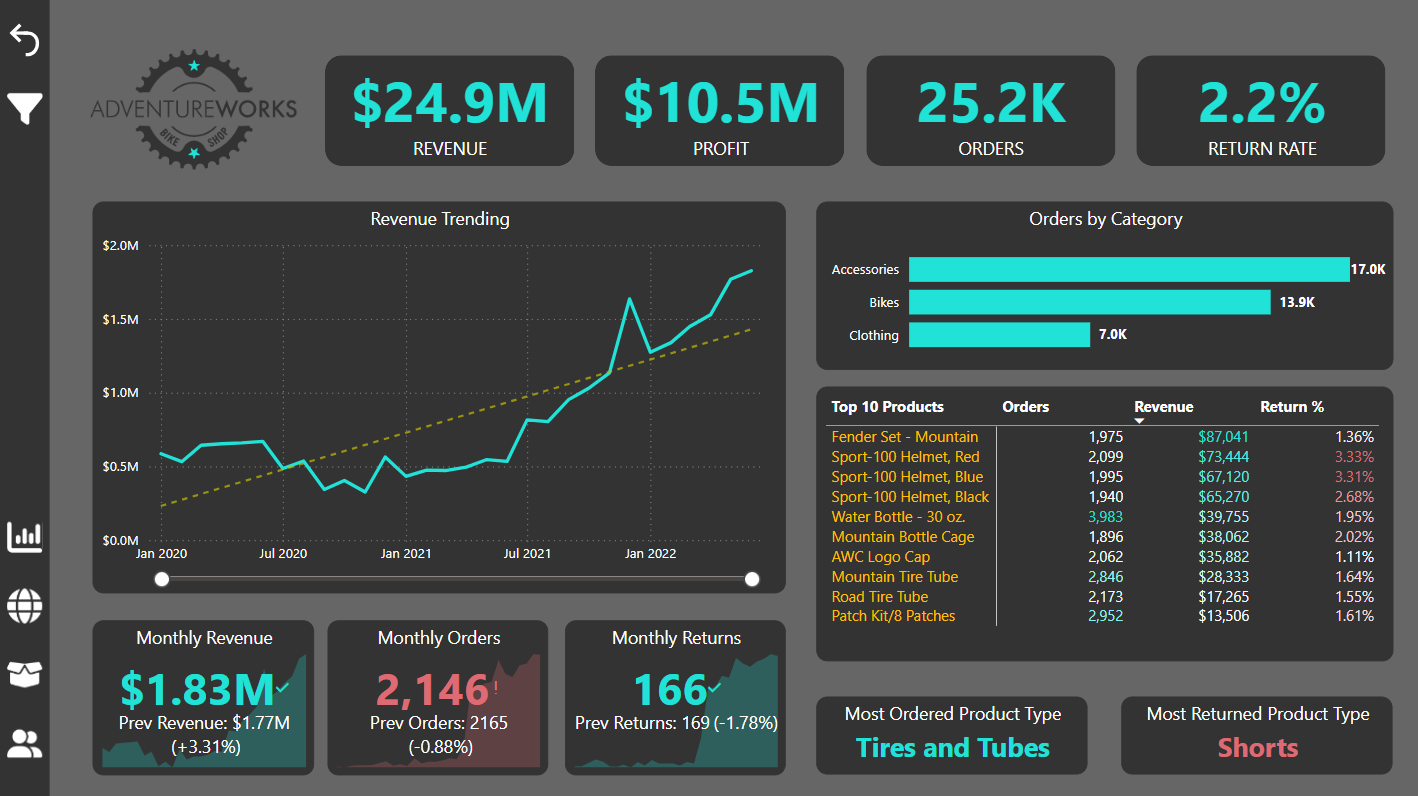
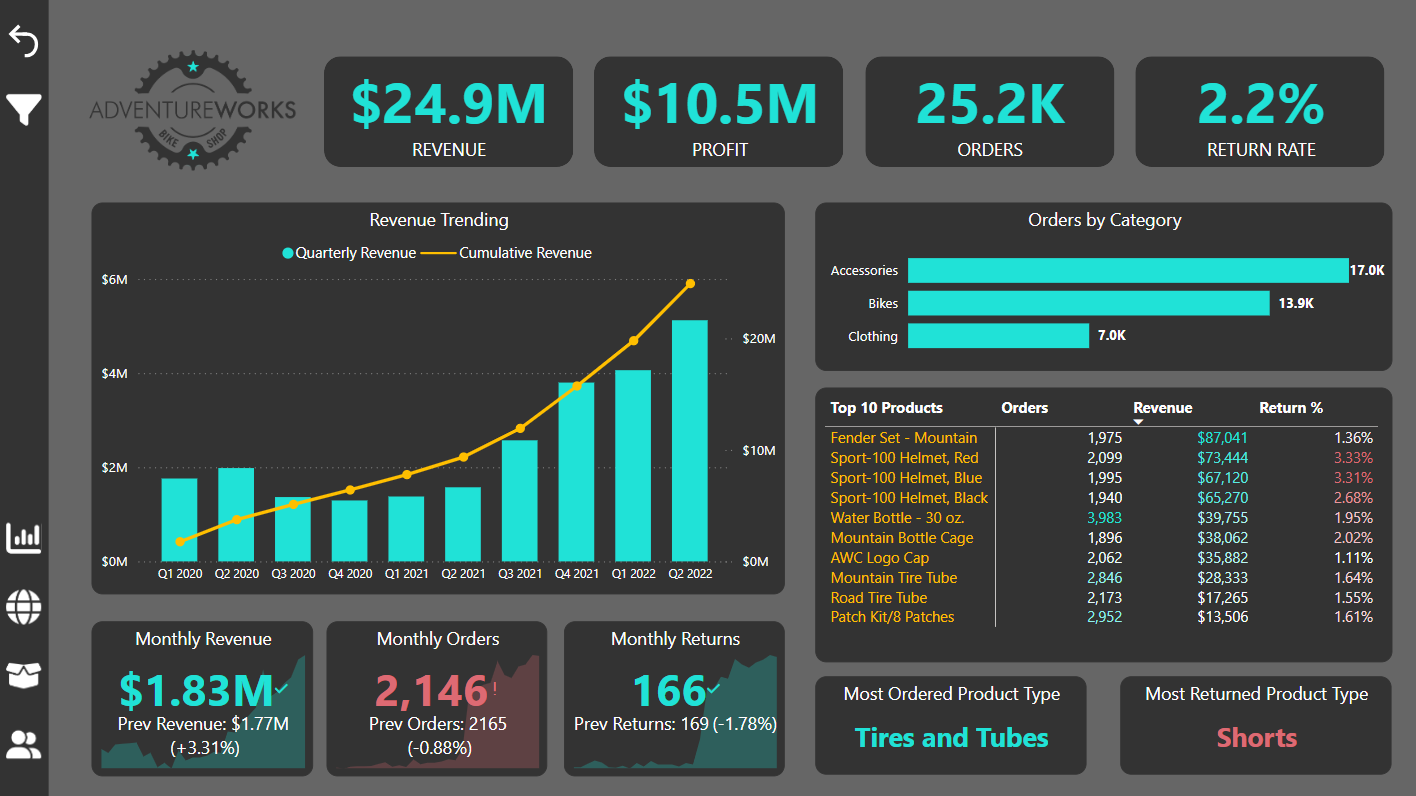
update README.md
Added Customer Detail section

diff --git a/README.md b/README.md
@@ -93,7 +93,7 @@ This is the main landing page for the report and displays a high level overview 
 
 #### Key takeaways
 
-- ${\textsf{\color{cyan}Revenue}}$ is overall showing a ${\textsf{\color{cyan}healthy uptrend}}$, although there were few instances where the revenue dropped significantly from previous month e.g., in Jul 2020 & Jan 2022.
+- ${\textsf{\color{cyan}Revenue}}$ is overall showing a ${\textsf{\color{cyan}healthy uptrend}}$, although there was an instance where the revenue dropped significantly from previous quarter e.g., in Q3 2020.
 
 - Overall, ${\textsf{\color{cyan}Accessories}}$ is the ${\textsf{\color{cyan}most ordered category}}$ of product selling approx. ${\textsf{\color{cyan}17k}}$ items.
 
@@ -104,6 +104,11 @@ This is the main landing page for the report and displays a high level overview 
 - ${\textsf{\color{cyan}Current month revenue}}$ is 1.83 Million which is ${\textsf{\color{cyan}3.3 percent more}}$ than previous month, ${\textsf{\color{indianred}monthly orders}}$ are slightly ${\textsf{\color{indianred}down by 0.8 percent}}$ compared to previous month. ${\textsf{\color{cyan}Monthly returns}}$ have marginally ${\textsf{\color{cyan}improved by 1.78 percent}}$ over previous month.
 
 - ${\textsf{\color{cyan}Tires and Tubes}}$ is the ${\textsf{\color{cyan}most ordered}}$ product and ${\textsf{\color{indianred}Shorts}}$ is the ${\textsf{\color{indianred}most returned}}$ product.
+
+<br>
+
+> [!NOTE]
+> Switch to github dark mode, in case you observe ${\textsf{\color}} symbols in the key takeaways section.
 
 <br>
 
@@ -123,7 +128,7 @@ Here, the bubble size is proportional to the number of orders. User can also hov
 
 <br>
 
-### **Product Detail Map**
+### **Product Detail Page**
 
 This page highlights important KPI metrics related to product. Report users can right click -> **drill through** -> **Product Detail** from the top revenue products on **Executive Dashboard** page and land on the product detail page.
 
@@ -136,9 +141,34 @@ This page has a page level filter applied (of the selected product) to show the 
 #### Key takeaways
 
 - Since the page will show different values depending upon the product selected, there are no specific takeaways.
+
 - However, I would like to highlight few things about the design
     - **Gauge cards** at top have current month target value set as **10% more** than the last month order, revenue & profit values for the filtered product.
     - Report users can select important KPI metrics for the **area chart** using the radio button selector and quickly glance the trends.
 
 <br>
 
+### **Customer Detail Page**
+
+This page displays important KPI metrics related to customers. There are two views on this page <ins>**Strategic KPIs** and **Monthly KPIs**</ins>
+
+**Strategic** KPIs show combined (or overall) metrics for full period range.<br>
+**Monthly KPIs** show metrics for the current month (if present, or the latest month data present in the sales table)
+
+#### **Key takeaways - <ins>Strategic KPIs</ins>**
+
+![Customer Detail Strategic KPIs](/assets/images/customer_detail_strategic_kpis.png)
+
+- ${\textsf{\color{cyan}Number of customers}}$ is on an ${\textsf{\color{cyan}uptrend trajectory}}$, with Q3 2021 being an exceptional quarter for adding lot of customers.
+
+- However, ${\textsf{\color{indianred}Revenue Per Customer}}$ over the time is ${\textsf{\color{indianred}declining}}$, which is a cause of concern.
+
+- ${\textsf{\color{cyan}Repeat Customer Rate}}$ (also sometimes referred as Returning Customer Rate) is at a ${\textsf{\color{cyan}healthy 33.6 percent}}$. Although, this rate is industry and sector specific, a good rule of thumb says that rate between 20-40% is considered healthy.
+
+#### **Key takeaways - <ins>Monthly KPIs</ins>**
+
+![Customer Detail Monthly KPIs](/assets/images/customer_detail_monthly_kpis.png)
+
+- Number of ${\textsf{\color{indianred}monthly customers}}$ added marginally ${\textsf{\color{indianred}declined by 0.86 percent}}$ from the previous month.
+- Even though ${\textsf{\color{cyan}Revenue Per Customer}}$ has been declining overall, current month value saw a ${\textsf{\color{cyan}4.2 percent increase}}$ from previous month.
+- ${\textsf{\color{cyan}Repeat Customer Rate}}$ also saw a healthy ${\textsf{\color{cyan}3.5 percent increase}}$.
